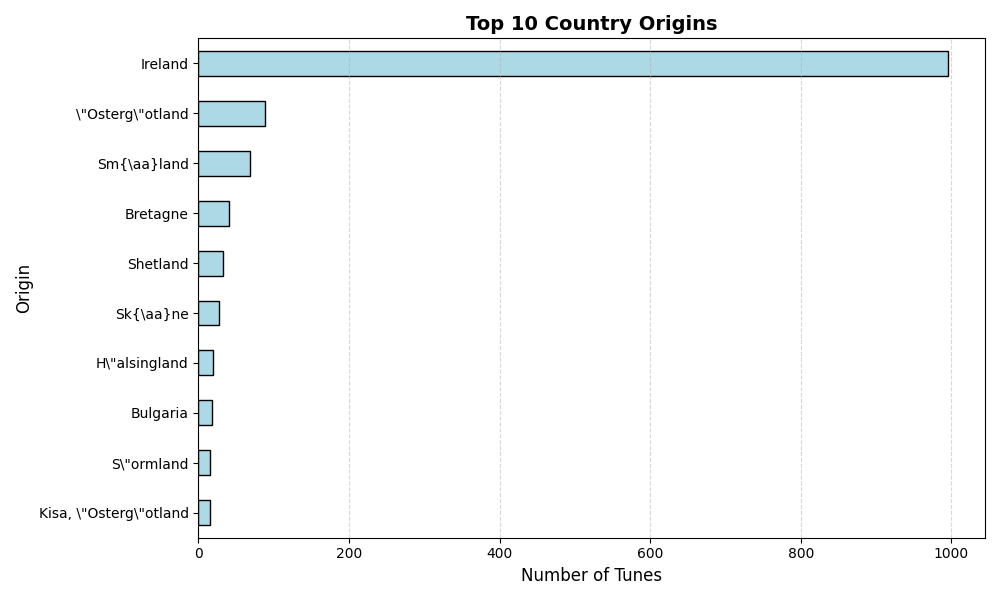
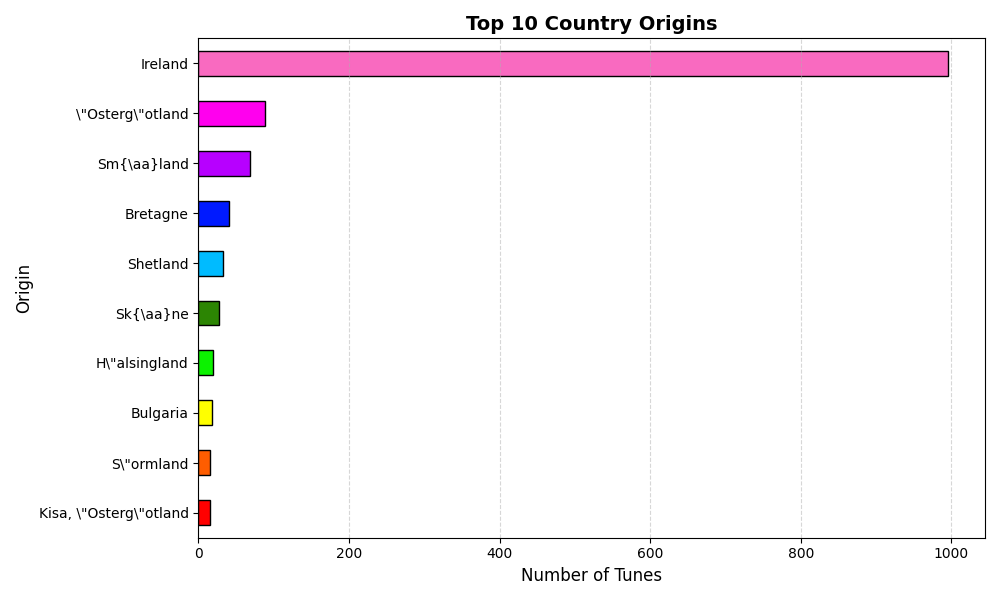
Changes to be committed: put my al tunes into a  table in the menu and changed colours on barchart.

diff --git a/starter_code.py b/starter_code.py
@@ -176,10 +176,61 @@ def search_tune_title():
 
 def get_all_books():
     conn = connect_db()
+    root, search_frame, tree = create_UI()
 
-    query = "SELECT * from  tunes1"
-    df = pd.read_sql(query,conn)
-    print(df.head())
+    root.title("All Tunes")
+    root.geometry("400x300")
+
+    search_frame.pack_forget()
+
+    title_label = tk.Label(
+        root,
+        text="All Tunes from Table"
+    )
+    title_label.pack(side="top",pady=10)
+
+    info_frame = tk.Frame(root)
+    info_frame.pack(side="top",pady=5)
+    
+
+    record_label = tk.Label(
+        info_frame,
+        text="loading"
+    )
+    record_label.pack()
+
+    try:
+        query = "SELECT * from  tunes1"
+        df = pd.read_sql(query,conn)
+
+        for idx, row in df.iterrows():
+            tree.insert("", tk.END, values=list(row))
+            record_label.config(text=f"Total records {len(df)}")
+
+    except Exception as e:
+        messagebox.showerror("Error")
+        record_label.config(text="error")
+
+    btn_close = tk.Button(
+        root,
+        text="Close",
+        command=lambda:[conn.close(), root.destroy()],
+        width=20,
+        height=5,
+        bg="#38A5FF",
+        fg="#000000",
+        bd=5
+    )
+    btn_close.pack(pady=10)
+
+    def on_closing():
+        conn.close()
+        root.destroy()
+
+    root.protocol("WM_DELETE_WINDOW", on_closing)
+    root.mainloop()
+
+    
 
 #search a tune by the book number
 def search_tune_book():
@@ -258,8 +309,10 @@ def barchart_top10_origins():
         origin_counts=origin_counts.iloc[1:11]
         print(origin_counts)
 
+        colours=["#FF0000","#FE5D00", "#FFFF00","#0CF200","#2C8503","#00BBFF","#001AFF","#B700FF","#FF00EE","#F96AC0"]
+
         plt.figure(figsize=(10, 6))
-        origin_counts.sort_values().plot(kind='barh', color='lightblue', edgecolor='black')
+        origin_counts.sort_values().plot(kind='barh', color=colours, edgecolor='black')
 
         plt.title("Top 10 Country Origins", fontsize=14, fontweight='bold')
         plt.xlabel("Number of Tunes", fontsize=12)

diff --git a/week11.py b/week11.py
@@ -1,0 +1,18 @@
+import matplotlib.pyplot as plt
+import pandas as pd
+
+products = ["potatoes", "cabbages", "sausages", "porridge", "tea"]
+weights =[1000, 500,675, 100, 50]
+weights1 =[10, 50,75, 10, 51]
+
+plt.plot(products, weights, color="#FFFF0F", marker='^', linewidth= 5, linestyle= '--', label="Weights")
+
+plt.plot(products, weights1, color="#2D00F7", marker='^', linewidth= 5, linestyle= '--', label="Weights1")
+plt.xlabel("Products")
+plt.ylabel("Weights")
+plt.title("Product weights")
+plt.legend()
+plt.xticks()
+plt.grid()
+plt.show()
+
